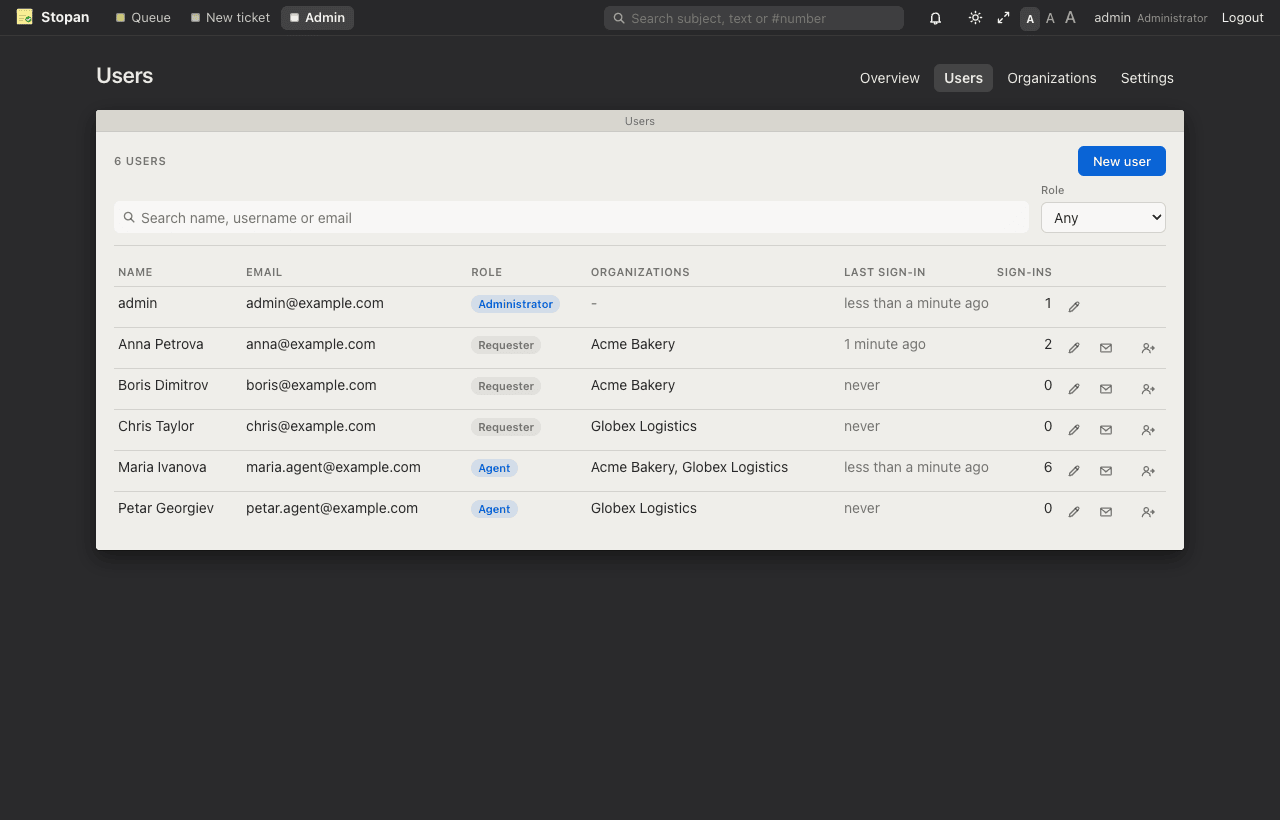
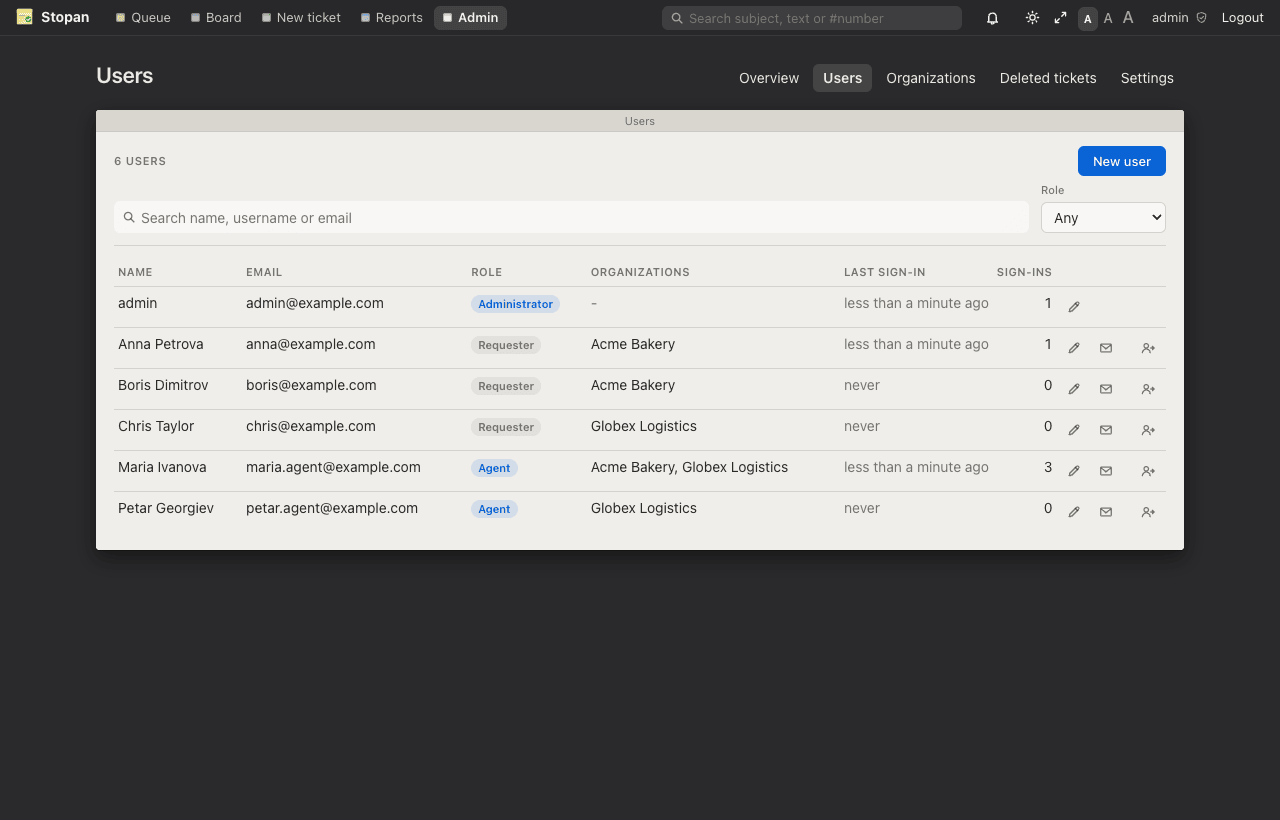
docs(readme): refresh the screenshots, all in english
The README screenshots now show the current pages: the queue with the
row check boxes and the "Advanced search" disclosure, the board with
its filter bar, the agent's ticket page with "Delete ticket" and the
copyable requester email, the requester's ticket on a phone, and the
admin users list in the dark theme with the "Deleted tickets" tab.
They were taken from a scratch database with only the fictional
make demo data, not the development data.

The operator asked for no Cyrillic in them, so bin/screenshots runs
Chrome with --lang and --accept-lang set to English and an English
locale environment, and the phone shot is in English too: it is now
ticket-requester-phone.png (the Bulgarian ticket-requester-bg-phone.png
is removed and the README points at the new file). Spec: ui.md
"Screenshots".

diff --git a/todo/todo.md b/todo/todo.md
@@ -156,6 +156,7 @@ decisions: IMAP, address = identity, magic links, form off by default):
 - [x] organization page: member picker with live search and check boxes, several at once (operator, 2026-10-27; specs/admin.md "Adding members")
 - [x] production: deployed 59175fa (everything since 8730df2, 8 migrations) after a database backup (specs/deploy.md)
 - [ ] operator: try the API through Apache with a personal token (PATCH/DELETE and JSON bodies vs ModSecurity); switch on mail fetching in /admin/settings
+- [x] README screenshots refreshed, all in English (Chrome with an English environment); the phone shot is now ticket-requester-phone.png (operator, 2026-10-27; specs/ui.md "Screenshots")
 - [x] admin: flush all tickets of an organization after typing its name, keeping its settings; numbers never reused (operator, 2026-10-27; specs/admin.md "Flush all tickets of an organization")
 - [x] requester email on the ticket page and the profile copies on click instead of opening the mail program (operator, 2026-10-27; specs/ui.md "Emails copy on click")
 - [ ] mail replies: keep their headers too (specs/organization-mail.md "Mail details")

diff --git a/specs/ui.md b/specs/ui.md
@@ -284,9 +284,11 @@ profile or the header". The language of a page is the first of:
 
 The README shows five screenshots in `docs/screenshots/` (excluded from the
 Docker image): the agent queue, the kanban board (`specs/board.md`), the
-agent's ticket page, the same ticket for its requester on a 390px phone in
-Bulgarian, and the admin users list in the dark theme. They use only the
-fictional `make demo` data. Refresh them when one of these pages changes
+agent's ticket page, the same ticket for its requester on a 390px phone,
+and the admin users list in the dark theme. They use only the fictional
+`make demo` data, all in English (operator, 2026-10-27: "English
+environment, no Cyrillic in the screenshots"): Chrome runs with
+`--lang=en`, `--accept-lang=en` and an English locale environment. Refresh them when one of these pages changes
 visibly.
 
 `make screenshots` refreshes them: start the development server with the

diff --git a/README.md b/README.md
@@ -16,9 +16,9 @@ instant.
 
 ![Kanban board with a column per status and the Not now and Done columns collapsed](docs/screenshots/board.png)
 
-| Ticket page for an agent | Requester on a phone, in Bulgarian |
+| Ticket page for an agent | Requester on a phone |
 |---|---|
-| ![Ticket timeline with a public reply, an internal note and audit entries](docs/screenshots/ticket-agent.png) | ![The same ticket seen by its requester, without the internal note](docs/screenshots/ticket-requester-bg-phone.png) |
+| ![Ticket timeline with a public reply, an internal note and audit entries](docs/screenshots/ticket-agent.png) | ![The same ticket seen by its requester, without the internal note](docs/screenshots/ticket-requester-phone.png) |
 
 ![Admin users list in the dark theme](docs/screenshots/admin-users-dark.png)
 

diff --git a/session/2026-10-26-assignment-sharing.md b/session/2026-10-26-assignment-sharing.md
@@ -798,6 +798,10 @@ menu and Take; open /tickets/new and pick a requester.
   health and headers fine. An authenticated API smoke test through Apache was
   not allowed from the session (it writes a token on the server); the
   operator tests with a personal token.
+- README screenshots refreshed from a scratch demo database on :3007 (not the dev
+  data); `bin/screenshots` now runs Chrome with --lang/--accept-lang en and an
+  English locale environment, the phone shot is English
+  (`ticket-requester-phone.png`, the Bulgarian one removed).
 - Timeline order: `app_settings.timeline_order` (migration
   `AddTimelineOrderToAppSettings`), panel "Ticket page" on settings;
   cookie `timeline_order` from the account page (default clears it);
